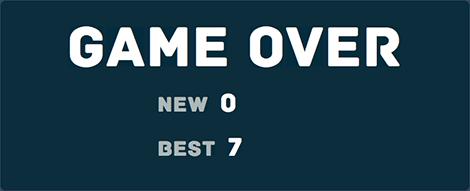
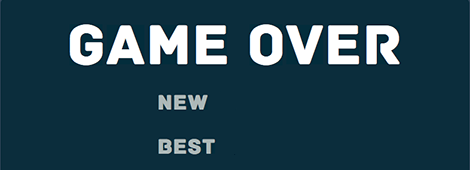
change gameover img

Changed region(s): [[0.1489, 0.1176, 0.8638, 0.4118], [0.3277, 0.7059, 0.5362, 0.9118], [0.3277, 0.4706, 0.5064, 0.6471]]

diff --git a/src/GameOvrLayer.js b/src/GameOvrLayer.js
@@ -22,22 +22,22 @@ var GameOverLayer = cc.LayerColor.extend({
 
     var gameoverDlg = cc.Sprite.create(s_gameover);
     gameoverDlg.setPosition(cc.p(screenSize.width / 2, screenSize.height / 1.5));
-//    gameoverDlg.setScaleY(1.5);
+   gameoverDlg.setScale(1.5);
 
 //    var defaults = sys.localStorage.getInstance();
     var bestScore = sys.localStorage.getItem("BestScore");
     bestScore = score > bestScore ? score : bestScore;
     sys.localStorage.setItem("BestScore", bestScore);
 
-    var bestScoreLbn = cc.LabelTTF.create("0", f_lato, 20);
+    var bestScoreLbn = cc.LabelTTF.create("0", f_lato, 25);
     bestScoreLbn.setColor(cc.WHITE);
     bestScoreLbn.setString(bestScore);
-    bestScoreLbn.setPosition(cc.p(gameoverDlg.getContentSize().width / 2, gameoverDlg.getContentSize().height / 3.5));
+    bestScoreLbn.setPosition(cc.p(gameoverDlg.getContentSize().width / 2 + 10, gameoverDlg.getContentSize().height / 6.5));
 
-    var newScoreLbn = cc.LabelTTF.create("0", f_lato, 20);
+    var newScoreLbn = cc.LabelTTF.create("0", f_lato, 25);
     newScoreLbn.setColor(cc.WHITE);
     newScoreLbn.setString(score);
-    newScoreLbn.setPosition(cc.p(gameoverDlg.getContentSize().width / 2, gameoverDlg.getContentSize().height / 1.8));
+    newScoreLbn.setPosition(cc.p(gameoverDlg.getContentSize().width / 2 + 10, gameoverDlg.getContentSize().height / 2.4));
 
     gameoverDlg.addChild(bestScoreLbn);
     gameoverDlg.addChild(newScoreLbn);
@@ -46,9 +46,10 @@ var GameOverLayer = cc.LayerColor.extend({
     var menu = cc.Menu.create(menuItemRestart, menuItemToStartScene);
     var offsetY = gameoverDlg.getContentSize().height / 2;
     var offsetX = gameoverDlg.getContentSize().width / 4;
-    menuItemRestart.setPosition(cc.p(screenSize.width / 2 - offsetX, screenSize.height / 2 - 0 * offsetY));
-    menuItemToStartScene.setPosition(cc.p(screenSize.width / 2 + offsetX, screenSize.height / 2 - 0* offsetY));
+    menuItemRestart.setPosition(cc.p(screenSize.width / 2 - offsetX, screenSize.height / 2 - offsetY));
+    menuItemToStartScene.setPosition(cc.p(screenSize.width / 2 + offsetX, screenSize.height / 2 - offsetY));
     menu.setPosition(cc.p(0, 0));
+    menu.setScale(1.5);
     this.addChild(menu);
   },
   onRestart:function(sender){
